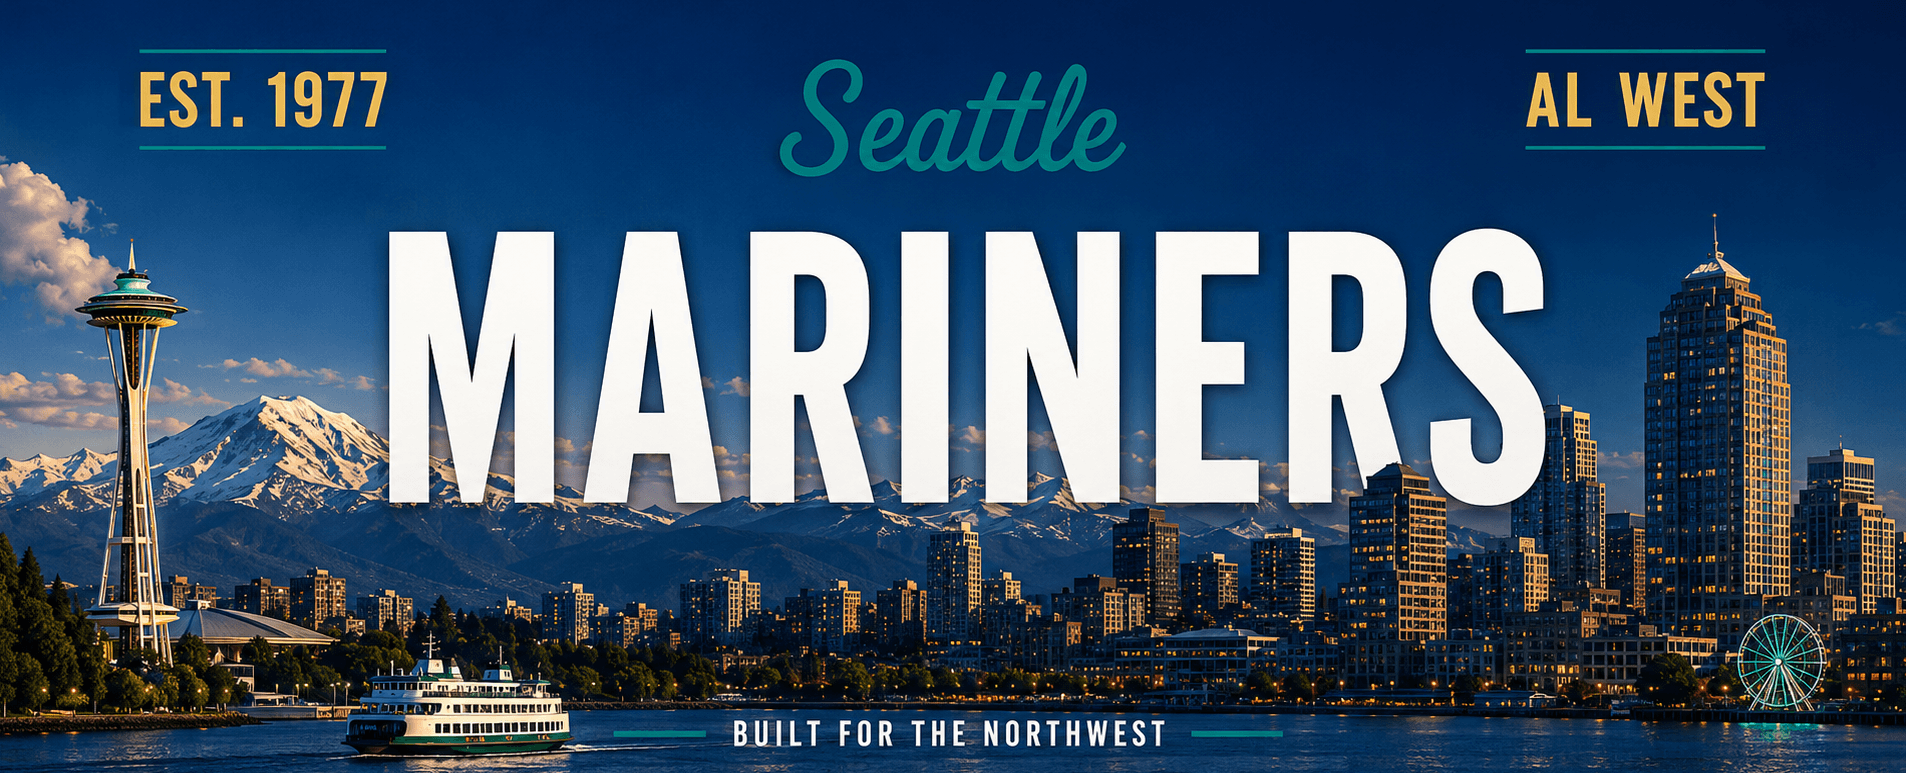
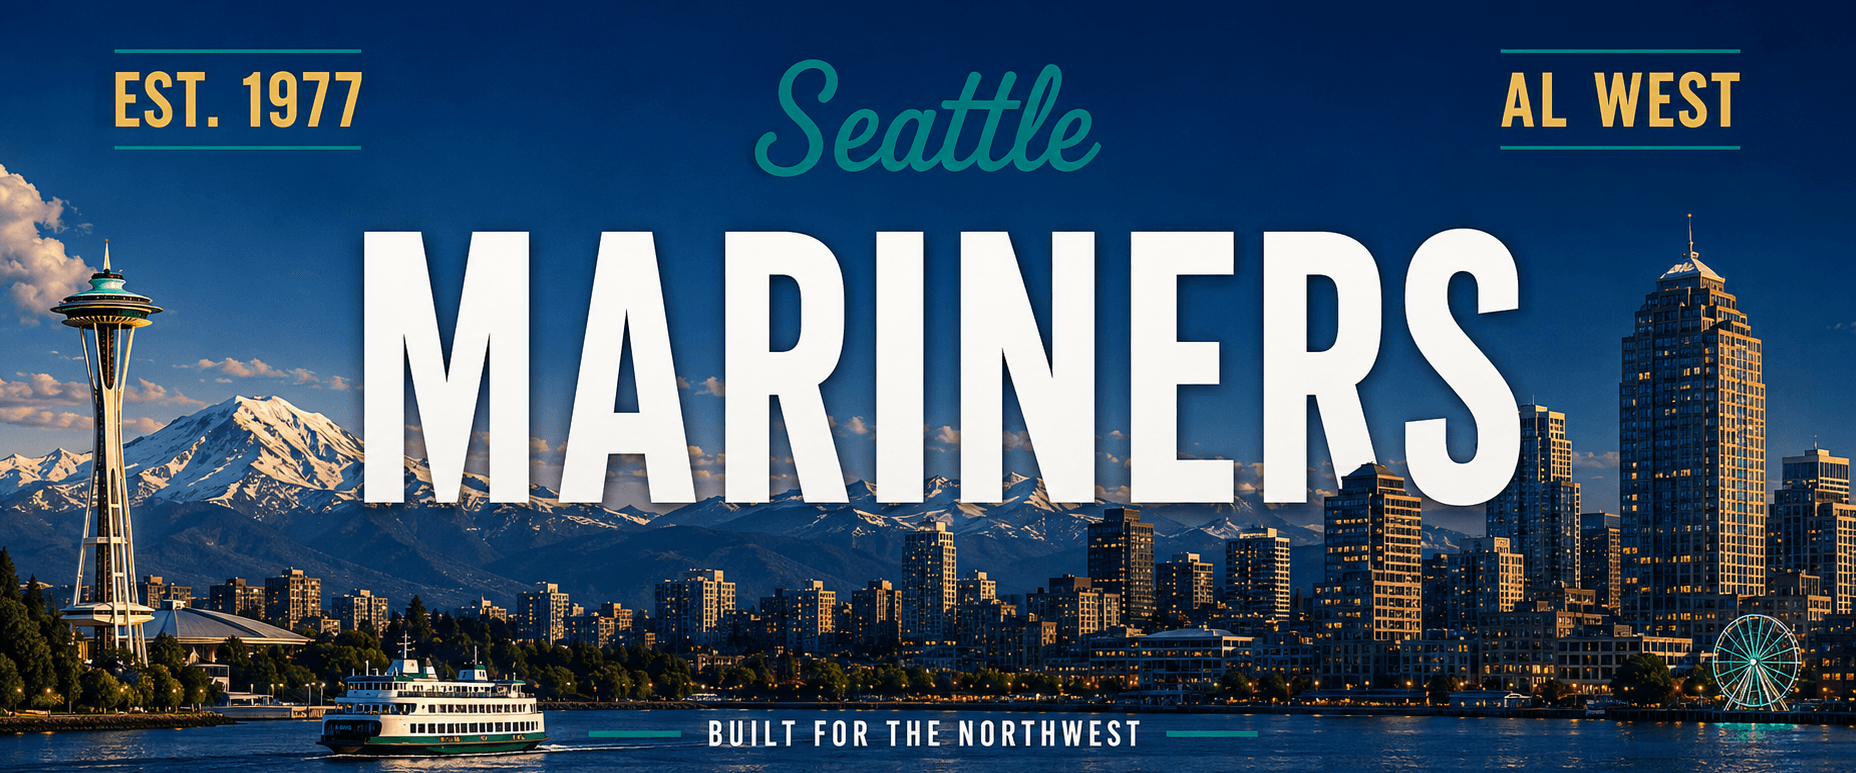
Keep a card's shape when the import trims its white
Eight sources are drawn as a rounded card on a white page, and the trim that
removes the white takes the same count of pixels off all four edges. On a wide
card that changes the shape: Mariners and Phillies both arrive a clean 1942x809
and came back 2.47:1 and 2.50:1, wider than the 2.4:1 they started at.

Nothing was lost — the header box simply cropped the difference back off at
render — but it meant the file on disk was never the shape the page wanted, and
teamBanners.ts recorded a size no source actually had. The trim is now fitted
back to the source's own ratio, so what lands on disk is what gets drawn.

Mariners, Phillies and Rays join the box exactly. Mets moves the other way,
from 2.39 to its source's true 2.34 — the old number was the equal-pixel trim
flattering it by accident, not the art.

Braves, Marlins and Mets are still ~2.34:1 in the source itself. They need new
art to sit on the box; no import change reaches them.

diff --git a/lib/teamBanners.ts b/lib/teamBanners.ts
@@ -8,7 +8,7 @@ export const TEAM_BANNERS: Record<string, { width: number; height: number }> = {
   "orioles": { width: 1942, height: 809 },
   "red-sox": { width: 1942, height: 809 },
   "yankees": { width: 1942, height: 809 },
-  "rays": { width: 1908, height: 775 },
+  "rays": { width: 1860, height: 775 },
   "blue-jays": { width: 1942, height: 809 },
   "white-sox": { width: 1942, height: 809 },
   "guardians": { width: 1942, height: 809 },
@@ -18,12 +18,12 @@ export const TEAM_BANNERS: Record<string, { width: number; height: number }> = {
   "astros": { width: 1942, height: 809 },
   "angels": { width: 1942, height: 809 },
   "athletics": { width: 1942, height: 809 },
-  "mariners": { width: 1906, height: 773 },
+  "mariners": { width: 1856, height: 773 },
   "rangers": { width: 1942, height: 809 },
   "braves": { width: 1920, height: 819 },
   "marlins": { width: 1919, height: 820 },
-  "mets": { width: 1892, height: 791 },
-  "phillies": { width: 1890, height: 757 },
+  "mets": { width: 1854, height: 791 },
+  "phillies": { width: 1817, height: 757 },
   "nationals": { width: 1942, height: 809 },
   "cubs": { width: 1942, height: 809 },
   "reds": { width: 1942, height: 809 },
